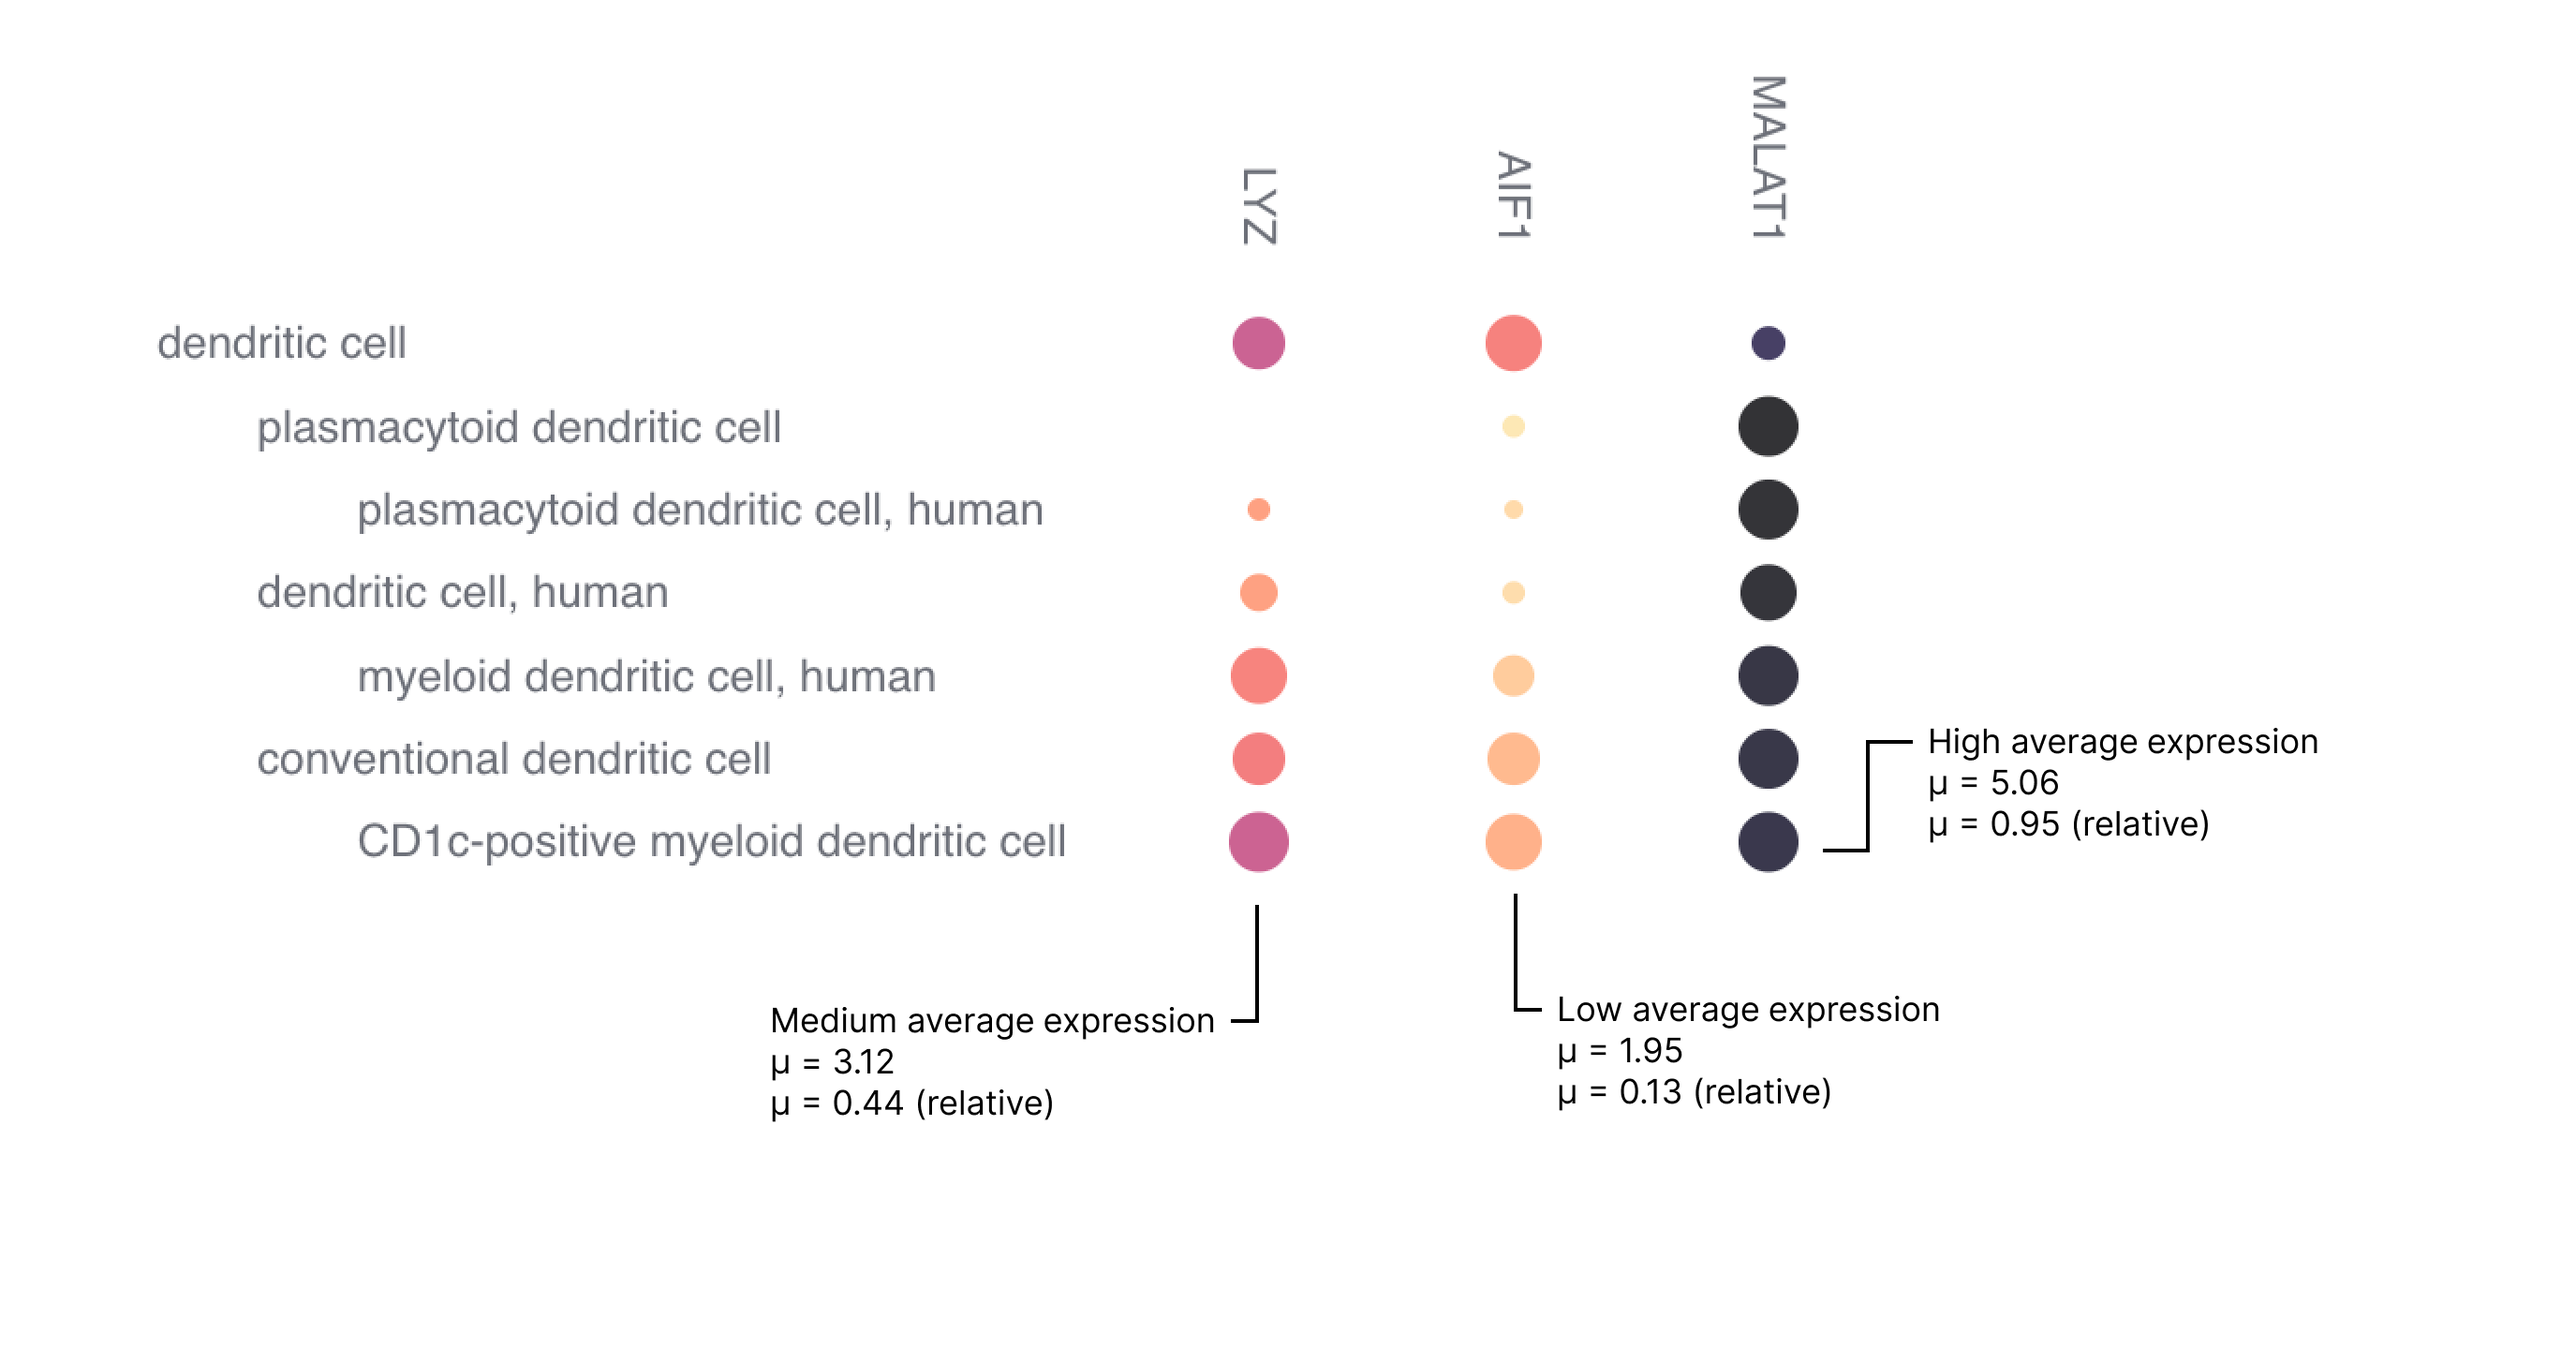
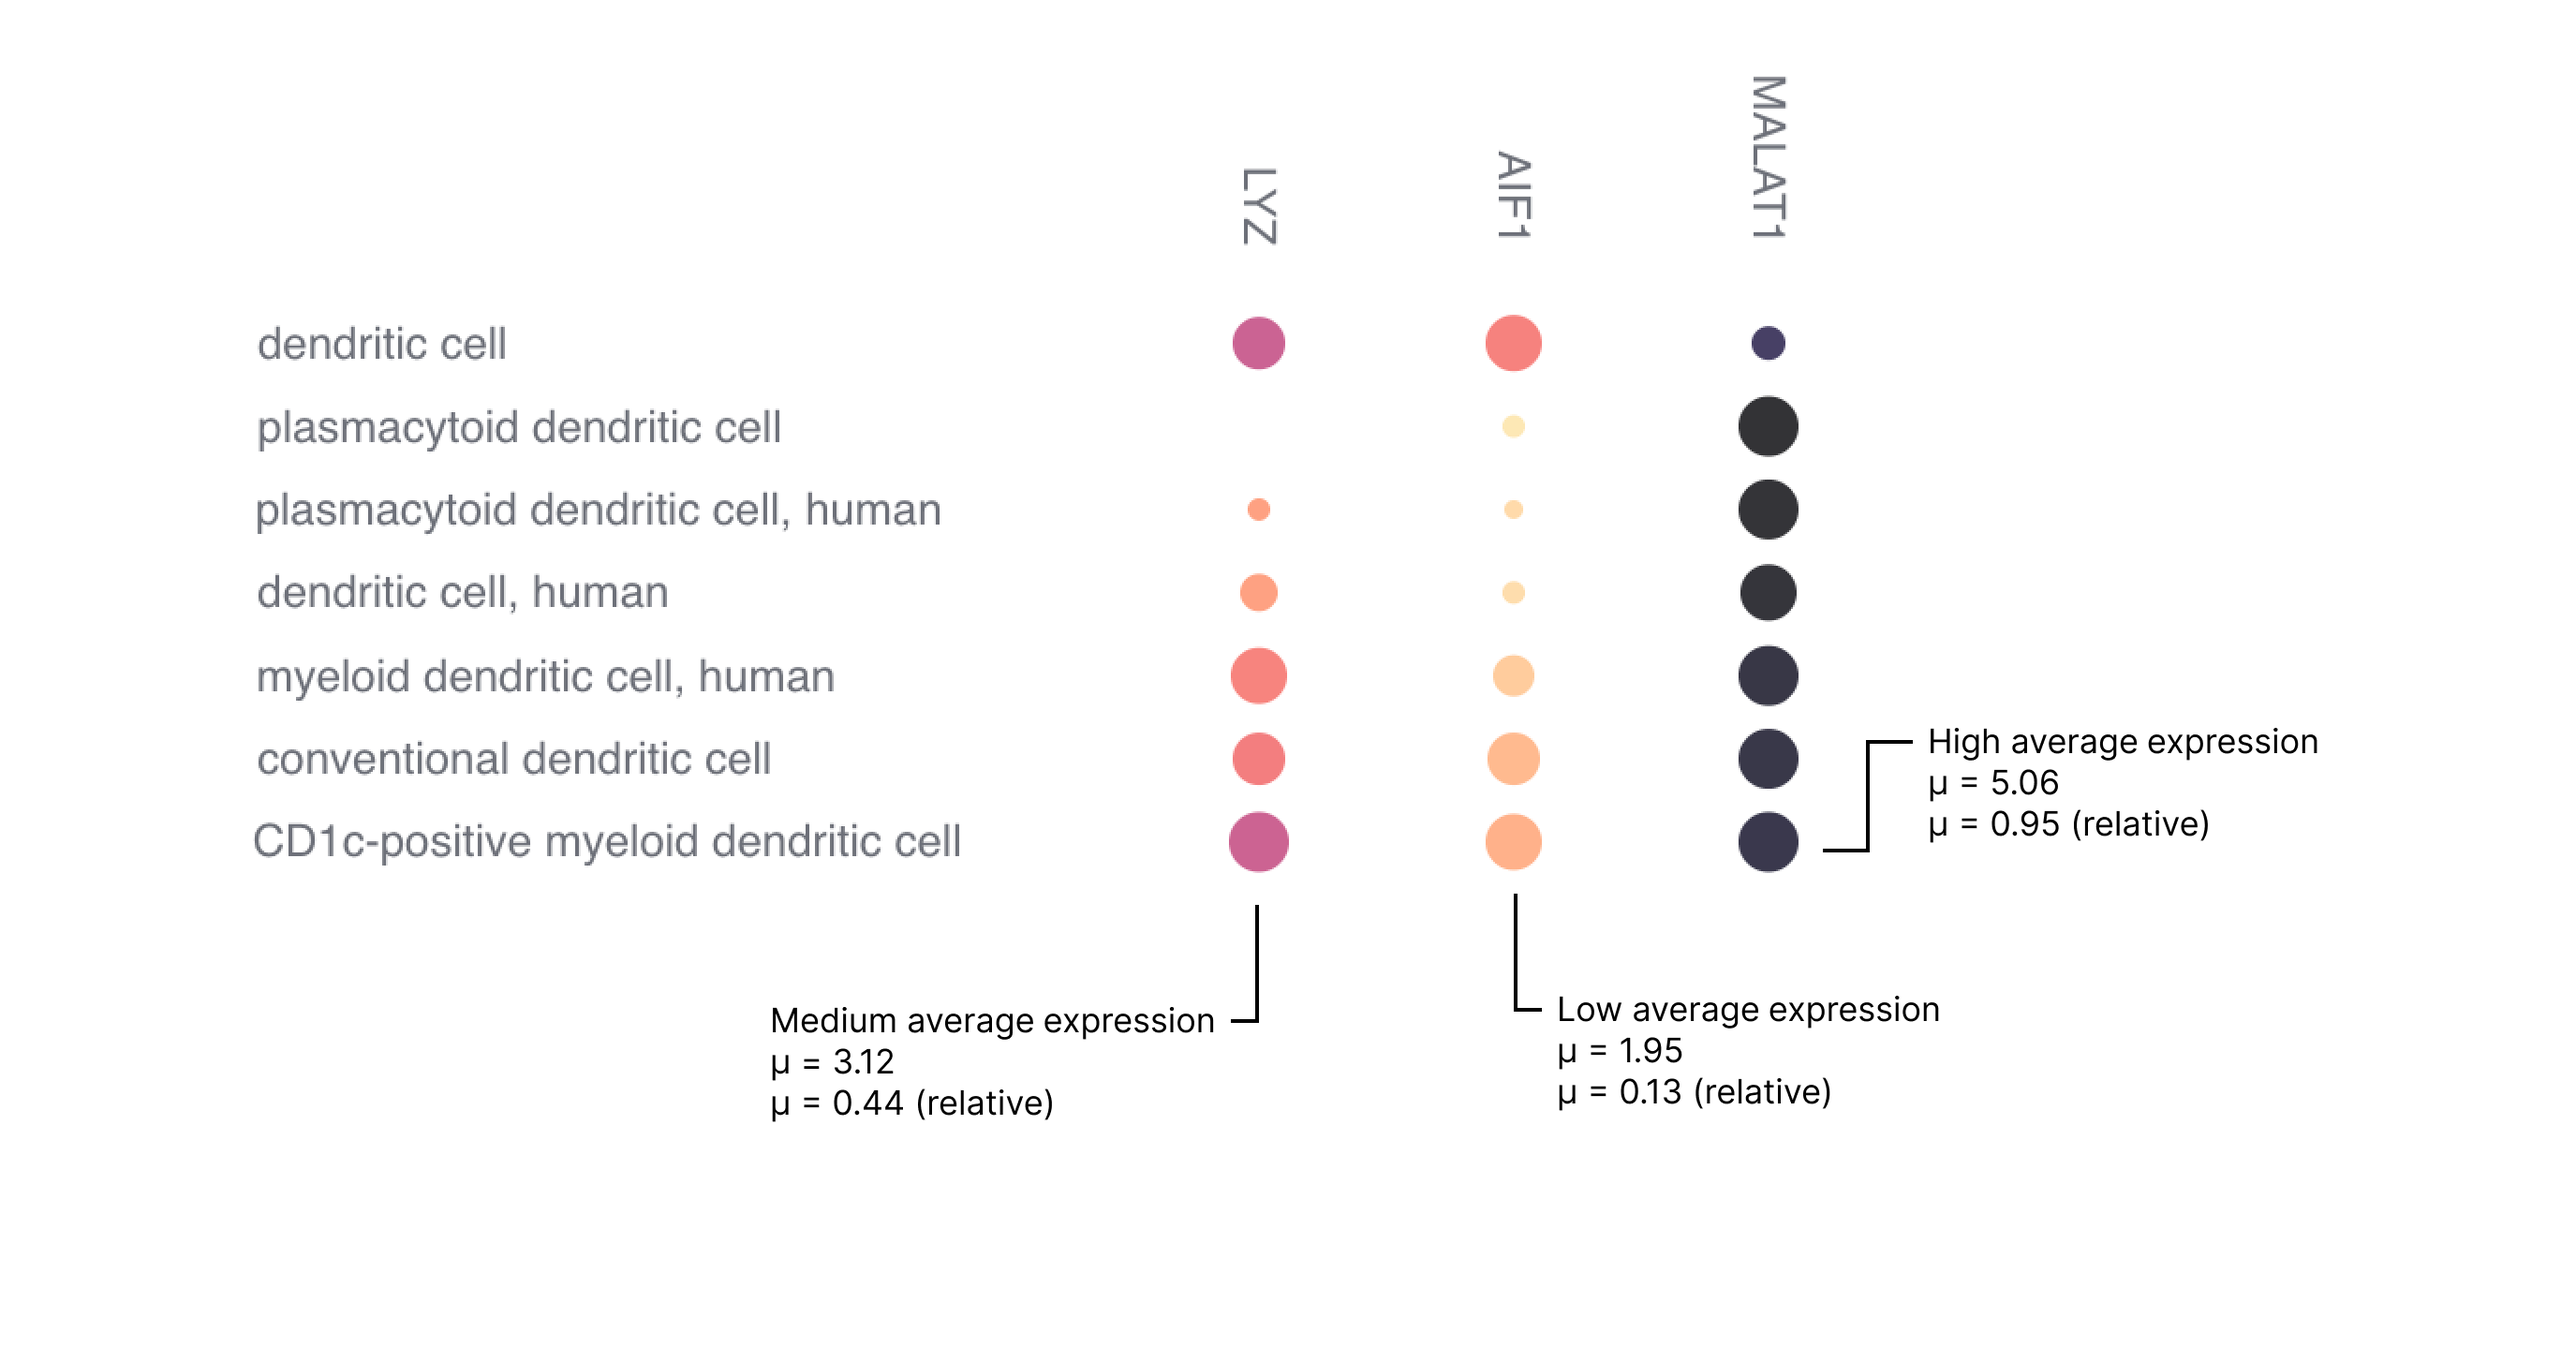
chore(wmg): update docs to reflect no indentation and fix doc-site bug (#4904)
* chore(wmg): update docs to reflect no indendation

* fix doc-site bug

---------

diff --git a/frontend/src/pages/docs/[...slug].tsx b/frontend/src/pages/docs/[...slug].tsx
@@ -17,7 +17,6 @@ import NextLink from "next/link";
 import pathTool from "path";
 import { Fragment, memo, useState, useMemo } from "react";
 import rehypeSlug from "rehype-slug";
-import { noop } from "src/common/constants/utils";
 import { OFF_WHITE, PINK } from "src/common/theme";
 import EmbeddedGoogleSlides from "src/components/EmbeddedGoogleSlides";
 import Layout from "src/components/Layout";
@@ -201,7 +200,7 @@ const DirectoryListItem = ({
   activeFile: string;
 }) => {
   const initialState = useMemo(() => {
-    return directory.files.includes(activeFile)
+    return containsActiveFile(directory, activeFile)
       ? ExpandedValue.DEFAULT_EXPAND
       : ExpandedValue.DEFAULT_COLLAPSE;
   }, [directory.files, activeFile]);
@@ -232,7 +231,6 @@ const DirectoryListItem = ({
           isChild
           activeFile={activeFile}
           isExpanded={isExpanded}
-          setIsExpanded={setIsExpanded}
         />
       </div>
     </Fragment>
@@ -243,22 +241,13 @@ const Directory = memo(function RenderDirectory({
   activeFile,
   directory,
   isExpanded,
-  setIsExpanded,
   isChild = false,
 }: {
   activeFile: string;
   directory: Directory;
   isExpanded: ExpandedValue;
-  setIsExpanded: (isExpanded: ExpandedValue) => void;
   isChild?: boolean;
 }) {
-  const initialState = useMemo(() => {
-    return containsActiveFile(directory, activeFile)
-      ? ExpandedValue.DEFAULT_EXPAND
-      : ExpandedValue.DEFAULT_COLLAPSE;
-  }, [directory.files, activeFile]);
-  setIsExpanded(initialState);
-
   const fileComponents: Array<[string, JSX.Element]> = directory.files.map(
     (file) => {
       let href = "/docs/";
@@ -342,8 +331,7 @@ const PageNavigator = ({
       <Directory
         directory={filePath}
         activeFile={activeFile}
-        isExpanded={1}
-        setIsExpanded={noop}
+        isExpanded={ExpandedValue.DEFAULT_EXPAND}
       />
     </StyledLeftNav>
   );
